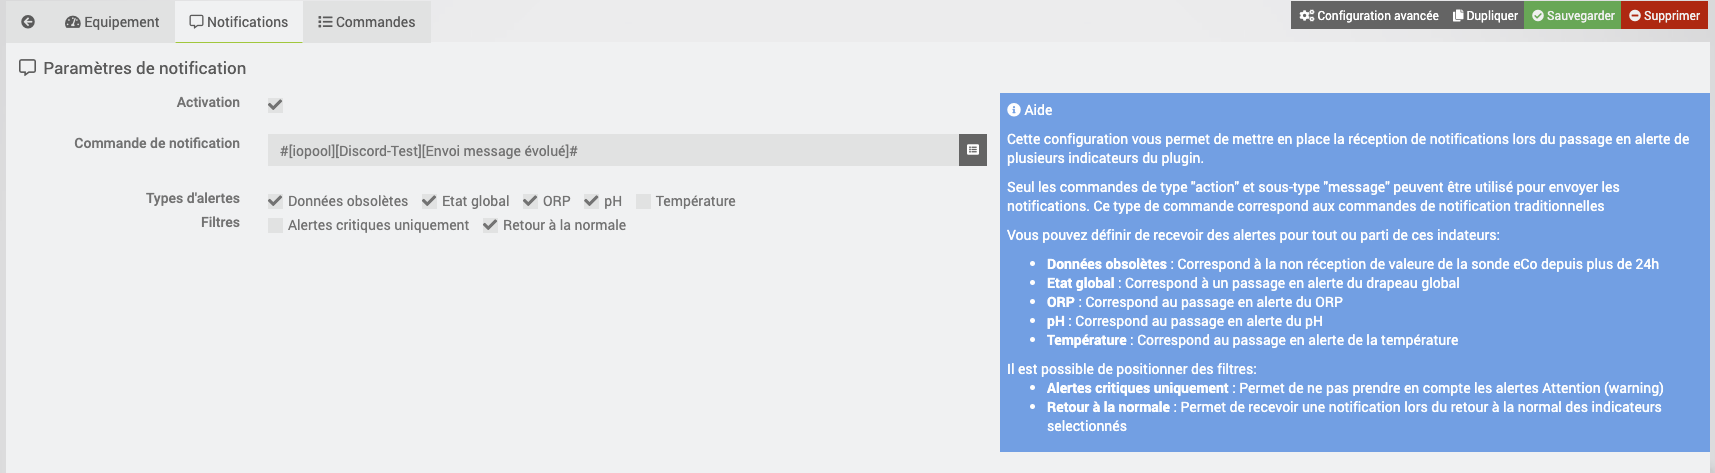
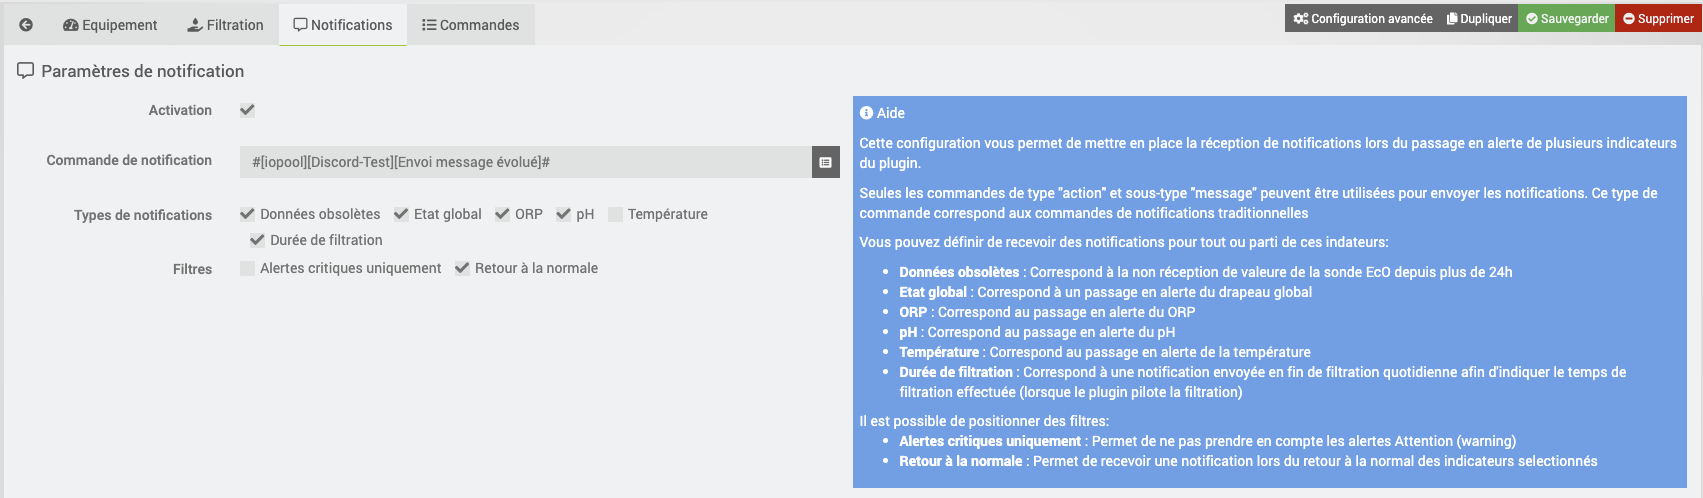
Diagral_eOne - Version Beta 2.3.7

diff --git a/fr_FR/iopool_EcO/documentation.md b/fr_FR/iopool_EcO/documentation.md
@@ -12,20 +12,20 @@ Outre la sonde, iopool c'est aussi une [application mobile](https://iopool.com/f
 
 La sonde iopool est uniquement compatible Bluetooth et l'ensemble des informations et actions sont disponibles directement dans l'application mobile iopool lorsque vous êtes à portée du bluetooth. Ces données sont ensuite transmises par l'application au cloud iopool.
 
-Cependant, iopool propose un [relais Bluetooth/Wifi](https://shop.iopool.com/fr/collections/accessories/products/relais-wi-fi) que vous laissez à portée Bluetooth de la piscine et qui permet de collecter les données de la sonde EcO et les transmettre en wifi vers le cloud iopool. Ainsi depuis n'importe où, vous pouvez accéder aux informations de votre piscine avec votre application mobile iopool et avec votre Jeedom.
+Cependant, iopool propose un [relais Bluetooth/Wifi](https://shop.iopool.com/fr/collections/accessories/products/bluetooth-wifi-gateway) que vous laissez à portée Bluetooth de la piscine et qui permet de collecter les données de la sonde EcO et les transmettre en wifi vers le cloud iopool. Ainsi depuis n'importe où, vous pouvez accéder aux informations de votre piscine avec votre application mobile iopool et avec votre Jeedom.
 
 Ce plugin est donc une interface avec le __CLOUD iopool__
 
 # Pré-requis/Recommandation
 
-L'utilisation d'un [relais Bluetooth/Wifi](https://shop.iopool.com/fr/collections/accessories/products/relais-wi-fi) est une recommandation au fonctionnement du plugin.
+L'utilisation d'un [relais Bluetooth/Wifi](https://shop.iopool.com/fr/collections/accessories/products/bluetooth-wifi-gateway) est une recommandation au fonctionnement du plugin.
 
 ![Photo relais Wifi](images/PhotoRelaisWifi.jpg)
 
 ![Fonctionnement du relais Bluetooth/Wifi](images/RelayWifiWorkingSchema.jpg)
 
-En effet, si vous ne possédez pas de relais, les données que le plugin pourra afficher, seront uniquement les données que votre application aura collectées en Bluetooth.
-Il est donc recommandé d'utiliser la sonde pour avoir des données plus régulières sans devoir ouvrir votre application. 
+__En effet, si vous ne possédez pas de relais, les données que le plugin pourra afficher, seront uniquement les données que votre application aura collectées en Bluetooth.
+Il est donc recommandé d'utiliser le relais pour avoir des données plus régulières sans devoir ouvrir votre application et vous approcher de votre piscine/SPA.__
 
 # Economisez de l'argent avec le parrainage iopool
 
@@ -65,20 +65,71 @@ L'ensemble des sondes vont être créées.
 Le plugin inclut un widget qui vous donne visuellement un retour sur les informations récoltées
 
 ![Widget](images/widget.png)
+![WidgetHivernage](images/widget-hivernage.png)
 
 # Rafraichissement
 
 ## Automatique
 
-Une tâche CRON est automatiquement créée et s'exécute toute les 5 minutes.
+Une tâche CRON s'exécute toute les 5 minutes.
 
-> Afin de ne pas surcharger le cloud iopool de requetes simultanées, un temps d'attente aléatoire entre 0 et 60 secondes s'ajoute lors du lancement du rafraichissement automatique des données
+> Afin de ne pas surcharger le cloud iopool de requetes simultanées, un temps d'attente aléatoire entre 0 et 10 secondes s'ajoute lors du lancement du rafraichissement automatique des données
 > Ce temps d'attente n'est ajouté qu'une seule fois même si l'on a plusieures sondes.
 
 ## Manuelle
 
-Dans un scénario, vous pouvez utiliser la commande Rafraichir afin de reforcer un refresh des informations.
+Dans un scénario, vous pouvez utiliser la commande __Rafraichir__ afin de reforcer un refresh des informations.
 Un bouton de refresh est aussi disponible en haut à droite du widget.
+
+# Filtration
+
+> <span style="color:red">__FONCTIONNALITE DISPONIBLE UNIQUEMENT EN BETA A PARTIR DE v2.0.0__</span>
+
+## Filtration automatique
+
+La sonde EcO iopool permet à partir des informations saisie sur votre piscine (dimension, hauteur d'eau, puissance de pompe, etc...) le temp de filtration recommandé. Ce temps est disponible dans la commande information __Temps de filtration recommandé__
+
+![Filtration](images/filtration.png)
+
+Il est possible au sein d'une sonde du plugin, d'activer la filtration automatique de votre piscine ou SPA. Pour cela, il vous faut une prise connectée, pilotable par Jeedom. Jeedom doit être en mesure de :
+- Allumer la prise
+- Eteindre la prise
+- Retourner son statut (1 : Allumé / 0 : Eteint)
+
+Une fois la filtration activée dans le plugin, vous pouvez configurer les commandes correspondantes à votre prise connectée.
+
+La durée de filtration utilisé comme base est celle fournie par iopool et votre sonde. Toutefois, il est possible de paramétrer son comportement et surcharger le temps recommandé pour iopool.
+
+Plusieurs options sont disponibles pour paramétrer l'usage du temps de filtration recommandé par iopool :
+- Définission jusqu'à 2 plages de filtration
+- Répartition du temps entre les plages de filtration
+- Heure de début des plages de filtrations (l'heure de fin étant définie automatiquement)
+
+Il est possible de surcharger le temps de filtration recommandé par iopool, en l'augmentant ou en le réduisant, en configurant les champs __Durée minimum de filtration__ et __Durée maximum de filtration__
+
+> La partie filtration du plugin fonctionne à partir d'un agenda de filtration qu'il génére automatiquement pour chaque sonde.
+>
+> Le cache est généré quotidiennement dans les 15 minutes précédent l'heure de début de la première plage de filtration, afin d'avoir le temps de filtration recommandé le plus pertinent. 
+
+## Boost de filtration
+
+Lors de certaines situations (comme l'application de produits), il peut être nécessaire de faire fonctionner la pompe pour une durée spécifique (Boost).
+
+Le plugin intégre donc des commandes permettant de lancer/arrêter des Boosts de filtration pour :
+- 1H
+- 4H
+- 8H
+- 24h
+
+> Ces commandes de boost possèdent automatiquement des types générique permettant par exemple, d'être disponible au sein de Homekit (couplé à l'utilisation du plugin Homebridge)
+
+Un boost de filtration vient en complément à la filtration. Ce qui veut dire qu'il ne réduira pas le temps de filtration recommandé par iopool et utilisé par la filtration du plugin.
+
+Cependant, si une période de boost chevauche une période de filtration, la filtration effectuée sera un cumul des périodes
+
+> _Exemple 1 : Une période de filtration est configurée  de 11h à 16h (5h de filtration recommandé par iopool - configuré en une seule plage). Si un boost de 4H est lancé à 10h30, la filtration effectuée sera de 10h30 à 16h sans interruption._
+> 
+> _Exemple 2 : Une période de filtration est configurée de 11h à 13h et de 16h à 18h (4h de filtration recommandé par iopool - configuré en deux plages 50/50). Si un boost de 8H est lancé à 10h30, la filtration effectuée sera de 10h30 à 18h30 sans interruption._
 
 # Commandes
 
@@ -90,6 +141,8 @@ Il existe actuellement plusieurs commandes qui sont décrites ci-dessous :
 
 * __Rafraichir__ : Mise à jour des informations de la sonde EcO
 
+> Il existe aussi des commandes d'action de Boost de filtration (cf. chapitre dédié)
+
 ## Info
 
 * __Mode de la sonde__ : Permet de connaitre le mode de la sonde (STANDARD / OPENING / WINTER / INITIALISATION)
@@ -100,6 +153,8 @@ Il existe actuellement plusieurs commandes qui sont décrites ci-dessous :
 * __Dernière mesure - pH__ : Mesure pH de la sonde EcO
 * __Dernière mesure - orp__ : Mesure de la capacité de désinfection
 * __Dernière mesure - mode de reception__ : Mode de réception de la valeur (standard = application / gateway = Relais Bluetooth/Wifi)
+
+> Il existe aussi des commandes d'information de Boost de filtration (cf. chapitre dédié)
 
 # Notifications
 
@@ -118,6 +173,7 @@ Vous pouvez définir de recevoir des alertes pour tout ou parti de ces indateurs
 * __ORP__ : Correspond au passage en alerte du ORP
 * __pH__ : Correspond au passage en alerte du pH
 * __Température__ : Correspond au passage en alerte de la température
+* __Durée de filtration__ : Permet d'émettre une notification avec le temps de filtration effectué (cf. chapitre Filtration)
 
 Il est possible de positionner des filtres:
 * __Alertes critiques uniquement__ : Permet de ne pas prendre en compte les alertes Attention (warning)
@@ -127,6 +183,7 @@ Il est possible de positionner des filtres:
 # Historisation
 
 Les commandes suivantes sont historisées par défaut :
+* __Temps de filtration recommandé__
 * __Dernière mesure - Temperature__
 * __Dernière mesure - pH__
 * __Dernière mesure - orp__

diff --git a/fr_FR/iopool_EcO/changelog.md b/fr_FR/iopool_EcO/changelog.md
@@ -2,6 +2,11 @@
 
 __Lorsque aucunes informations ne sont disponibles sur le changelog, cela implique un changement de documentation uniquement__
 
+# 2022-03-10 - v2.0.0 (BETA)
+
+- Intégration d'un systéme de gestion de la filtration (cf Documentation)
+- Intégration de notification sur le temps de filtration effectué dans la journée
+- Intégration d'une gestion de boost (compatible homekit)
 # 2021-09-29 - v1.1.2 (BETA)
 
 - Ajout de la capacité d'envoyer des notifications

diff --git a/fr_FR/Diagral_eOne/changelog.md b/fr_FR/Diagral_eOne/changelog.md
@@ -2,6 +2,9 @@
 
 __Lorsque aucunes informations ne sont disponibles sur le changelog, cela implique un changement de documentation uniquement__
 
+# 2022-03-11 - v2.3.7 (BETA)
+
+- Ajout de l'affichage du sous-type pour les Commandes / Transmetteurs / Sensors / Sirenes
 # 2022-01-31 - v2.3.6 (BETA)
 
 - Intégration du nouveau mode tableau de Jeedom Core 4.2
